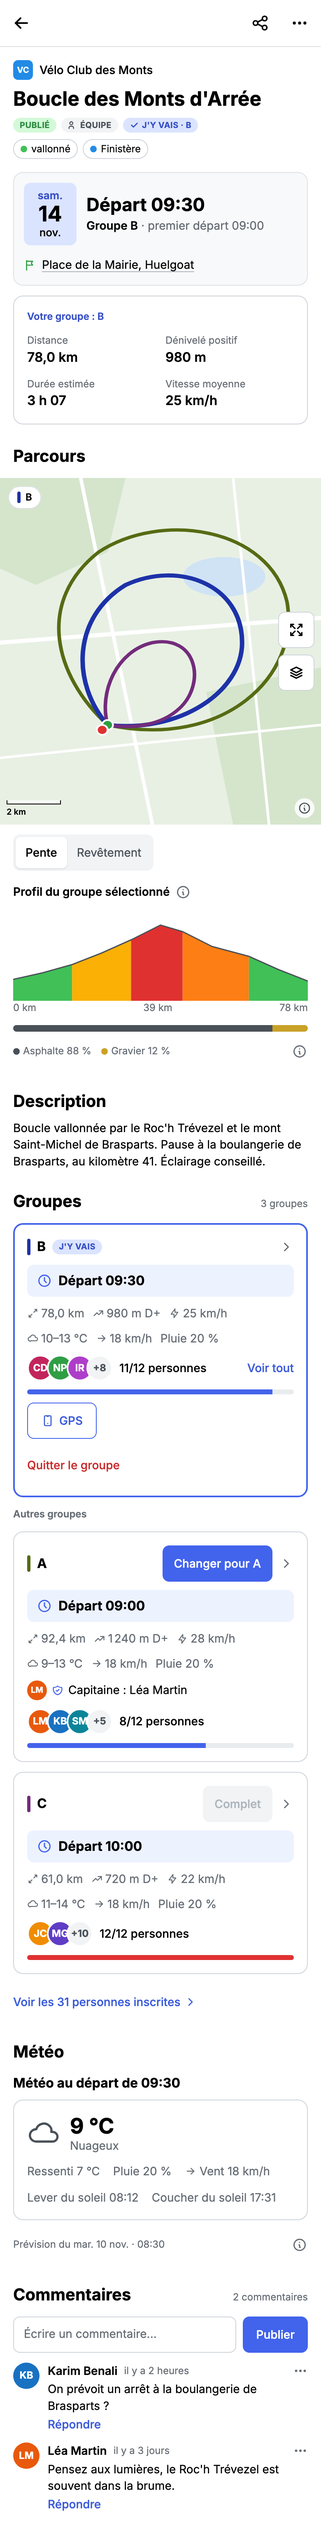
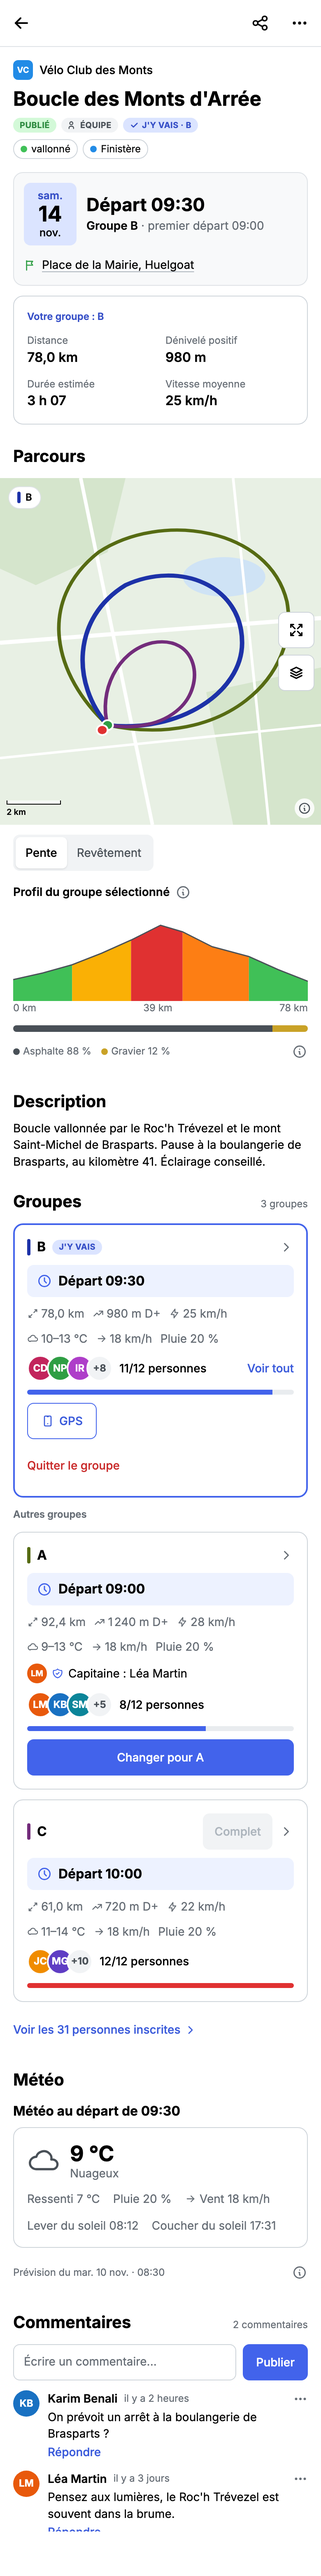
fix(mobile): « Changer pour {groupe} » en pleine largeur au pied de la carte de groupe — code, maquettes, KIT (MOB-134)
À côté du nom, le bouton se coupait dès que le groupe ne s'appelait pas « A » (« Changer pour Gr… », vu sur simulateur).

Claude-Session: https://claude.ai/code/session_01MZJEvoRDXbED7iii1WpWDQ

diff --git a/mobile/lib/features/rides/presentation/widgets/ride_group_card.dart b/mobile/lib/features/rides/presentation/widgets/ride_group_card.dart
@@ -25,8 +25,8 @@ import '../../../../keys.dart';
 ///
 /// 1. l'en-tête : la barre de couleur du tracé, le nom, le badge « J'y vais »
 ///    sur la sienne ; à droite le contrôle d'inscription ([action]) —
-///    « Rejoindre », « Changer pour A », « Complet » désactivé — et le
-///    chevron vers la page du groupe. **Plus de « Quitter » en haut** ;
+///    « Rejoindre », « Complet » désactivé — et le chevron vers la page du
+///    groupe. **Ni « Quitter » ni « Changer pour A » en haut** ;
 /// 2. « Départ 09:30 » en bandeau, quand les groupes ne partent pas tous à
 ///    la même heure ([showDeparture]) ;
 /// 3. la ligne de chiffres ([PublicationStatsLine]) : distance · D+ · vitesse ;
@@ -35,7 +35,9 @@ import '../../../../keys.dart';
 /// 6. les visages, « 11/12 personnes », « Voir tout », la barre de places ;
 /// 7. le bouton « GPS » ([onOpenGps]) — l'appelant ne le donne qu'à la carte
 ///    de son groupe ;
-/// 8. « Quitter le groupe », lien discret, quand [action] vaut
+/// 8. « Changer pour A », bouton plein en pleine largeur, quand [action] vaut
+///    [RideGroupAction.switchTo] — au pied, pour que le nom tienne en entier ;
+/// 9. « Quitter le groupe », lien discret, quand [action] vaut
 ///    [RideGroupAction.leave] — inscrite ici, que le groupe soit parti ou non.
 ///
 /// Elle ne décide de rien : [action] est calculée par
@@ -167,6 +169,21 @@ class RideGroupCard extends StatelessWidget {
               onPressed: onOpenGps,
             ),
           ],
+          // « Changer pour Groupe 2 » en pleine largeur, au pied : à côté du
+          // nom il s'abrégeait dès que le groupe ne s'appelait pas « A ».
+          if (action == RideGroupAction.switchTo) ...<Widget>[
+            const SizedBox(height: PdlSpacing.cardTight),
+            PdlButton(
+              key: keys.ride.groupSwitchButton(group.id),
+              label: 'rides.groupSwitchTo'.tr(
+                namedArgs: <String, String>{'group': group.name},
+              ),
+              loadingLabel: 'rides.joining'.tr(),
+              fullWidth: true,
+              loading: pending,
+              onPressed: onSwitch,
+            ),
+          ],
           if (action == RideGroupAction.leave) ...<Widget>[
             const SizedBox(height: PdlSpacing.badgeGap),
             RideGroupLeaveLink(
@@ -212,8 +229,7 @@ class RideGroupCard extends StatelessWidget {
         ),
         if (button != null) ...<Widget>[
           const SizedBox(width: PdlSpacing.chipGap),
-          // « Changer pour Les Rapides » s'abrège plutôt que d'écraser le nom.
-          Flexible(child: button),
+          button,
         ],
         // La carte ouvre la page du groupe : le chevron le dit.
         if (onTap != null) ...<Widget>[
@@ -228,7 +244,9 @@ class RideGroupCard extends StatelessWidget {
   /// Inscrite ici, rien : le badge « J'y vais » le dit, et « Quitter le
   /// groupe » est au pied de la carte.
   Widget? get _button => switch (action) {
-    RideGroupAction.none || RideGroupAction.leave => null,
+    RideGroupAction.none ||
+    RideGroupAction.leave ||
+    RideGroupAction.switchTo => null,
     RideGroupAction.full => PdlButton(
       key: keys.ride.groupFullButton(group.id),
       label: 'rides.groupFull'.tr(),
@@ -243,16 +261,6 @@ class RideGroupCard extends StatelessWidget {
       size: PdlButtonSize.sm,
       loading: pending,
       onPressed: onJoin,
-    ),
-    RideGroupAction.switchTo => PdlButton(
-      key: keys.ride.groupSwitchButton(group.id),
-      label: 'rides.groupSwitchTo'.tr(
-        namedArgs: <String, String>{'group': group.name},
-      ),
-      loadingLabel: 'rides.joining'.tr(),
-      size: PdlButtonSize.sm,
-      loading: pending,
-      onPressed: onSwitch,
     ),
   };
 

diff --git a/docs/plans/2026-11-10-etat-des-lieux-affichage/maquettes/project/sortie-groupes-heures-differentes-mobile-cible.dc.html b/docs/plans/2026-11-10-etat-des-lieux-affichage/maquettes/project/sortie-groupes-heures-differentes-mobile-cible.dc.html
@@ -208,7 +208,6 @@ a{color:#3b5bdb}a:hover{color:#364fc7}
           <span style="width: 4px; height: 20px; border-radius: 2px; background: #566b13; flex-shrink: 0"></span>
           <span style="font-size: 16px; font-weight: 700">A</span>
           <div style="flex: 1"></div>
-          <button type="button" style="min-height: 44px; padding: 0 14px; border-radius: 8px; border: none; background: #4263eb; color: #ffffff; font: 500 14px Inter, system-ui, sans-serif">Changer pour A</button>
           <svg width="18" height="18" viewBox="0 0 24 24" fill="none" stroke="#666d75" stroke-width="2" stroke-linecap="round" stroke-linejoin="round" aria-hidden="true"><path d="M9 6l6 6-6 6"></path></svg>
         </div>
         <div style="display: flex; align-items: center; gap: 8px; background: #edf2ff; border-radius: 8px; padding: 8px 12px"><svg width="18" height="18" viewBox="0 0 24 24" fill="none" stroke="#4263eb" stroke-width="2" stroke-linecap="round" stroke-linejoin="round" aria-hidden="true"><circle cx="12" cy="12" r="9"></circle><path d="M12 7v5l3 3"></path></svg><span style="font-size: 16px; font-weight: 700">Départ 09:00</span></div>
@@ -237,6 +236,7 @@ a{color:#3b5bdb}a:hover{color:#364fc7}
           <span style="font-size: 14px; font-weight: 500">8/12 personnes</span>
         </div>
         <div style="height: 6px; border-radius: 1000px; background: #e9ecef; overflow: hidden"><div style="width: 67%; height: 100%; background: #4263eb"></div></div>
+        <button type="button" style="min-height: 44px; width: 100%; border-radius: 8px; border: none; background: #4263eb; color: #ffffff; font: 500 14px Inter, system-ui, sans-serif">Changer pour A</button>
       </div>
 
       <!-- Carte C (complet) -->
@@ -334,7 +334,7 @@ a{color:#3b5bdb}a:hover{color:#364fc7}
   </div>
 </div>
 </x-dc>
-<script type="text/x-dc" data-dc-script data-props='{"$preview":{"width":390,"height":3074}}'>
+<script type="text/x-dc" data-dc-script data-props='{"$preview":{"width":390,"height":3128}}'>
 class Component extends DCLogic {
 renderVals() {
 return {};

diff --git a/docs/plans/2026-11-10-etat-des-lieux-affichage/maquettes/project/sortie-groupes-meme-heure-mobile-cible.dc.html b/docs/plans/2026-11-10-etat-des-lieux-affichage/maquettes/project/sortie-groupes-meme-heure-mobile-cible.dc.html
@@ -206,7 +206,6 @@ a{color:#3b5bdb}a:hover{color:#364fc7}
           <span style="width: 4px; height: 20px; border-radius: 2px; background: #566b13; flex-shrink: 0"></span>
           <span style="font-size: 16px; font-weight: 700">A</span>
           <div style="flex: 1"></div>
-          <button type="button" style="min-height: 44px; padding: 0 14px; border-radius: 8px; border: none; background: #4263eb; color: #ffffff; font: 500 14px Inter, system-ui, sans-serif">Changer pour A</button>
           <svg width="18" height="18" viewBox="0 0 24 24" fill="none" stroke="#666d75" stroke-width="2" stroke-linecap="round" stroke-linejoin="round" aria-hidden="true"><path d="M9 6l6 6-6 6"></path></svg>
         </div>
         <div style="display: flex; gap: 10px; flex-wrap: wrap; font-size: 14px; color: #666d75">
@@ -234,6 +233,7 @@ a{color:#3b5bdb}a:hover{color:#364fc7}
           <span style="font-size: 14px; font-weight: 500">8/12 personnes</span>
         </div>
         <div style="height: 6px; border-radius: 1000px; background: #e9ecef; overflow: hidden"><div style="width: 67%; height: 100%; background: #4263eb"></div></div>
+        <button type="button" style="min-height: 44px; width: 100%; border-radius: 8px; border: none; background: #4263eb; color: #ffffff; font: 500 14px Inter, system-ui, sans-serif">Changer pour A</button>
       </div>
 
       <!-- Carte C (complet) -->
@@ -330,7 +330,7 @@ a{color:#3b5bdb}a:hover{color:#364fc7}
   </div>
 </div>
 </x-dc>
-<script type="text/x-dc" data-dc-script data-props='{"$preview":{"width":390,"height":2926}}'>
+<script type="text/x-dc" data-dc-script data-props='{"$preview":{"width":390,"height":2980}}'>
 class Component extends DCLogic {
 renderVals() {
 return {};
